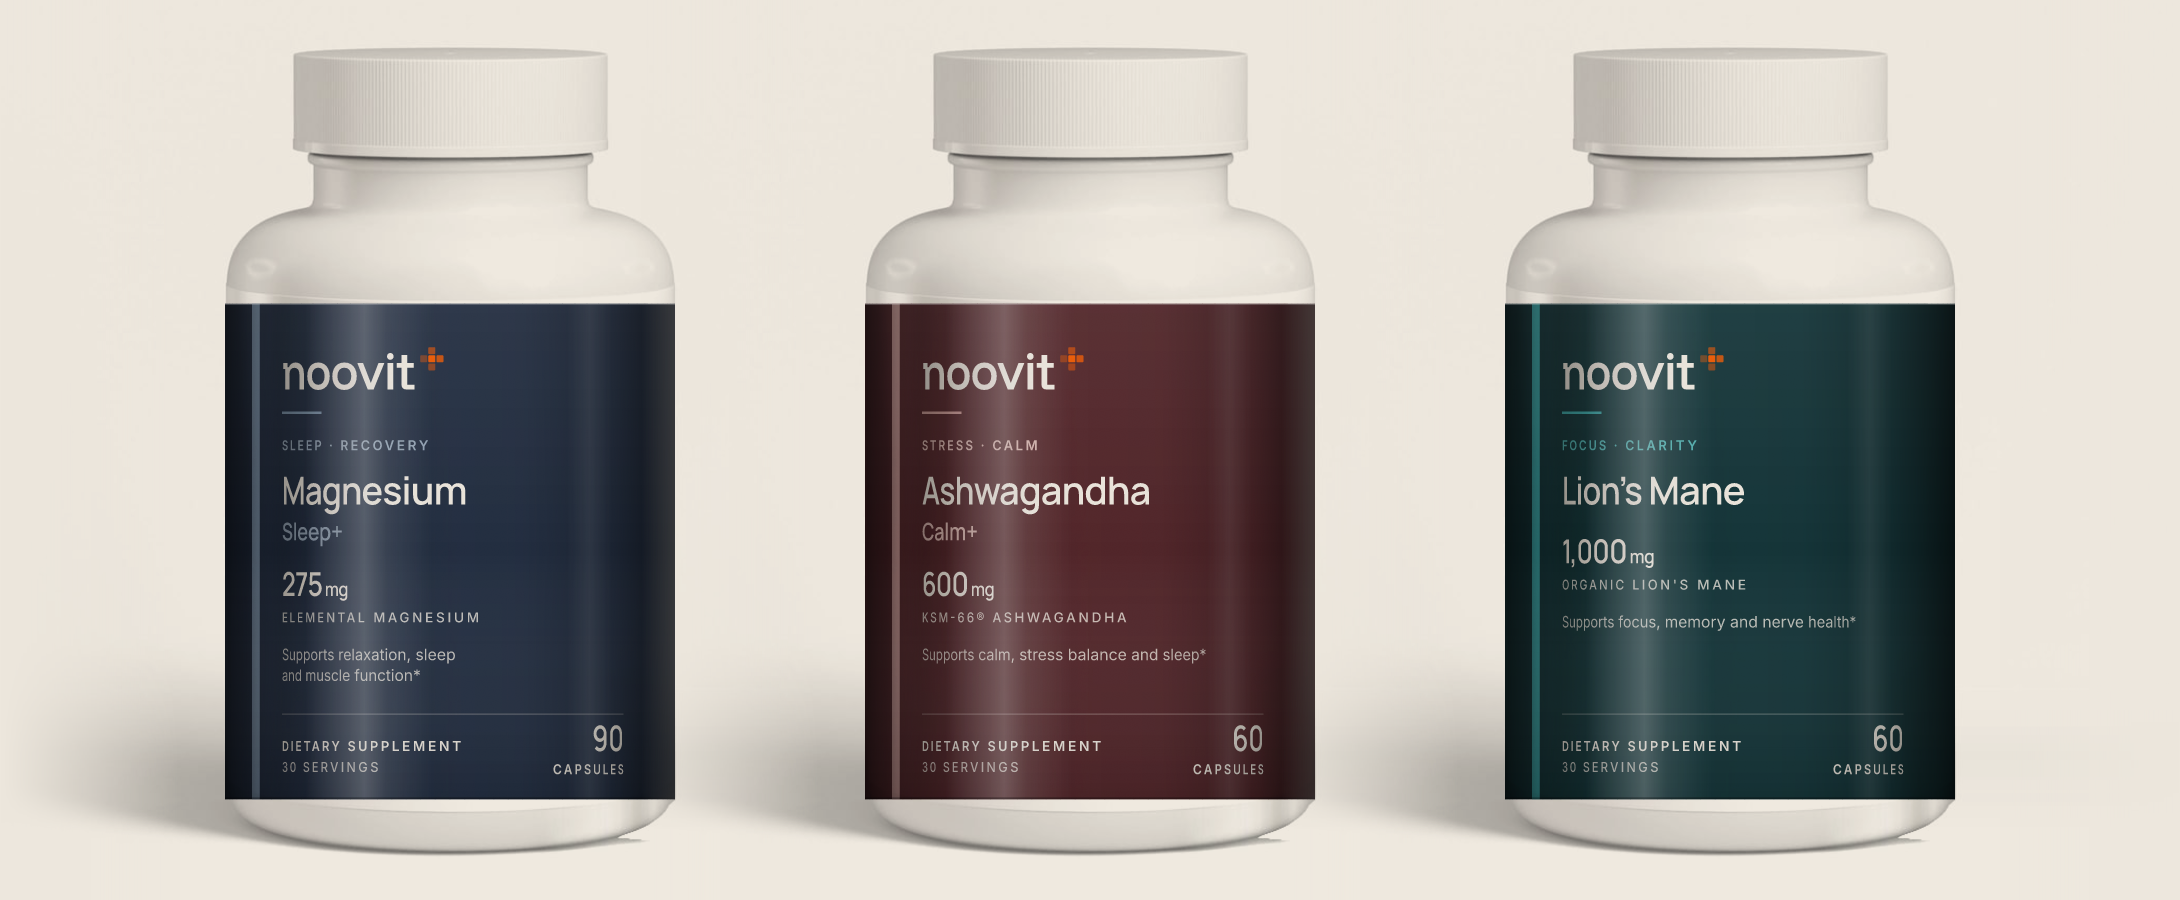
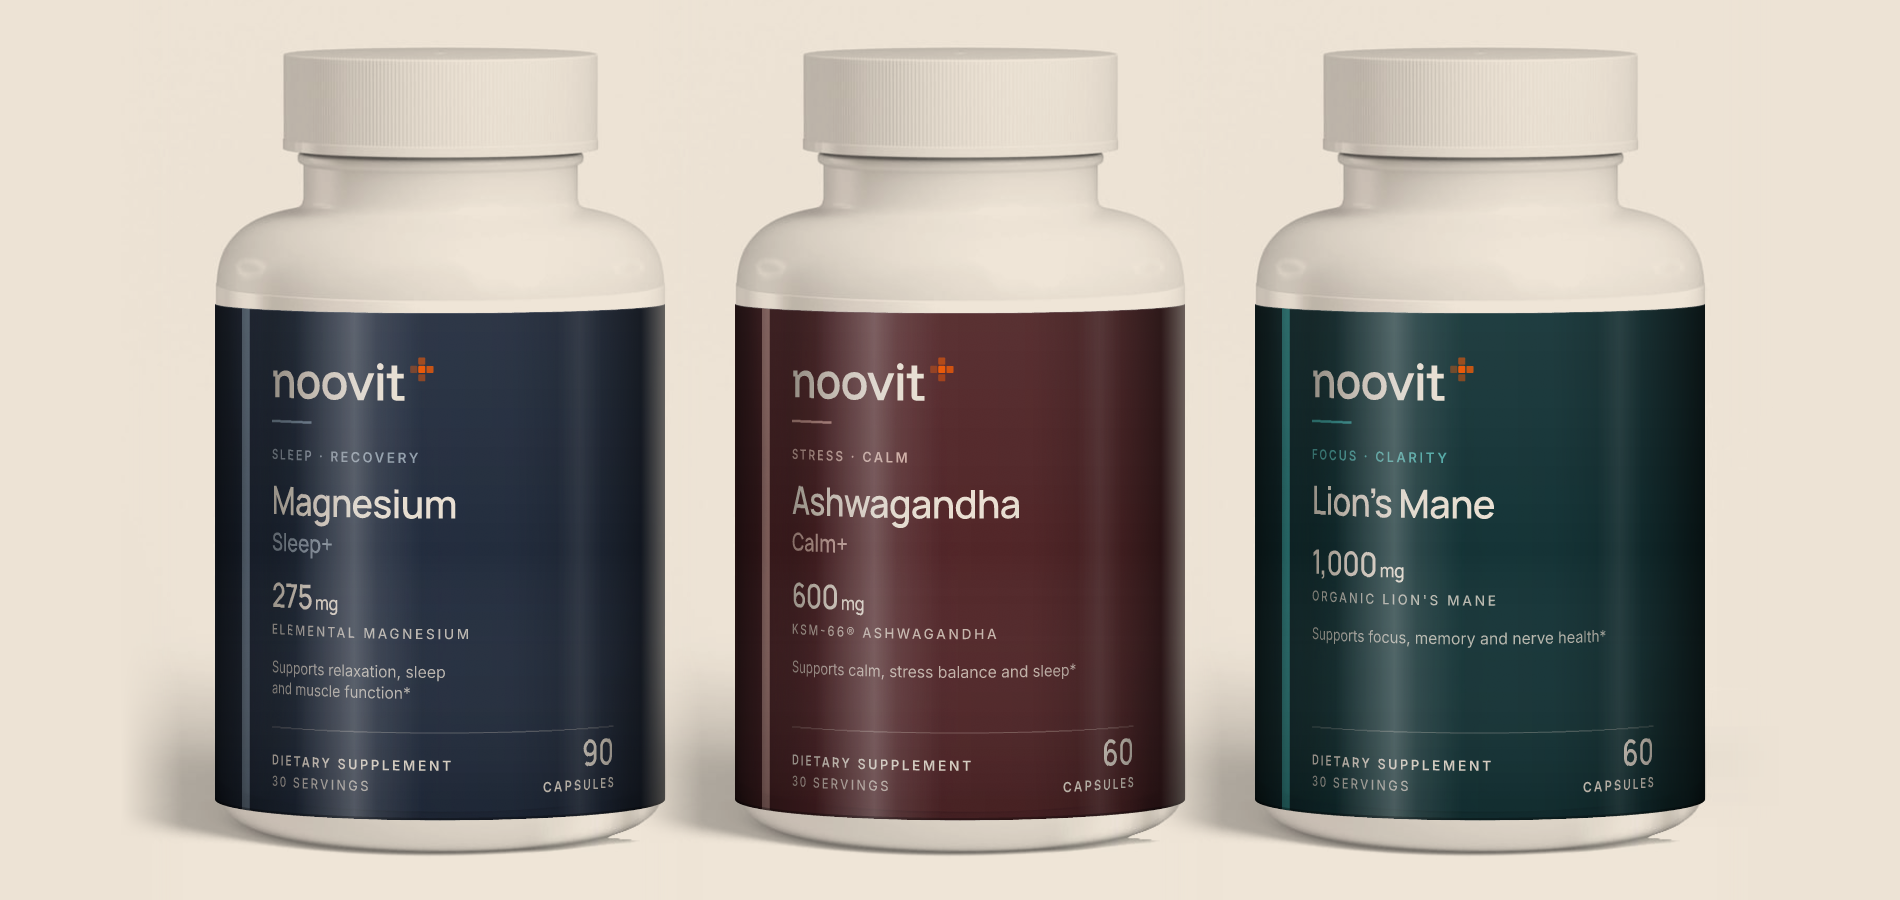
Photo mockups: label edges curve round the bottle; warmer, tighter line-up shots
Claude-Session: https://claude.ai/code/session_01AgHwmMXyw3TzvCrzNnVa8R

diff --git a/lib/labels/photo.ts b/lib/labels/photo.ts
@@ -19,6 +19,11 @@ const R = 215;
 const TOP = 372;
 const BOTTOM = 846;
 const STRIPS = 48;
+// Seen from slightly above, the label's top and bottom edges are ellipses: at the front they sit lower than at the
+// sides (measured on the photo: ~10 px at the shoulder seam, ~22 px near the base). The label follows that curve
+// instead of a flat rectangle, so its corners turn round the bottle like a real wrap.
+const BOW_TOP = 9;
+const BOW_BOTTOM = 20;
 
 export function usesPhoto(p: Product) {
   return !p.bundleComponents?.length && (p.form === 'capsules' || p.form === 'softgels');
@@ -63,12 +68,21 @@ const LIGHT_DEFS = `
       <feColorMatrix values="0 0 0 0 0.5  0 0 0 0 0.5  0 0 0 0 0.5  0 0 0 0.9 0"/>
     </filter>`;
 const lighting = () => `
-      <rect x="${X0}" y="${TOP}" width="${2 * R}" height="${BOTTOM - TOP}" filter="url(#lt-grain)" opacity="0.07" style="mix-blend-mode:overlay"/>
-      <rect x="${X0}" y="${TOP}" width="${2 * R}" height="${BOTTOM - TOP}" fill="url(#lt-v)"/>
-      <rect x="${X0}" y="${TOP}" width="${2 * R}" height="${BOTTOM - TOP}" fill="url(#lt-roll)"/>
-      <rect x="${X0}" y="${TOP}" width="${2 * R}" height="${BOTTOM - TOP}" fill="url(#lt-spec)" style="mix-blend-mode:screen"/>
-      <rect x="${X0}" y="${TOP}" width="${2 * R}" height="1.4" fill="#fff" opacity="0.22"/>
-      <rect x="${X0}" y="${BOTTOM - 2.2}" width="${2 * R}" height="2.2" fill="#000" opacity="0.28"/>`;
+      <rect x="${X0}" y="${TOP}" width="${2 * R}" height="${BOTTOM - TOP + BOW_BOTTOM}" filter="url(#lt-grain)" opacity="0.07" style="mix-blend-mode:overlay"/>
+      <rect x="${X0}" y="${TOP}" width="${2 * R}" height="${BOTTOM - TOP + BOW_BOTTOM}" fill="url(#lt-v)"/>
+      <rect x="${X0}" y="${TOP}" width="${2 * R}" height="${BOTTOM - TOP + BOW_BOTTOM}" fill="url(#lt-roll)"/>
+      <rect x="${X0}" y="${TOP}" width="${2 * R}" height="${BOTTOM - TOP + BOW_BOTTOM}" fill="url(#lt-spec)" style="mix-blend-mode:screen"/>
+      <path d="${edge(TOP, BOW_TOP)}" fill="none" stroke="#fff" stroke-width="1.6" opacity="0.22"/>
+      <path d="${edge(BOTTOM - 1.2, BOW_BOTTOM)}" fill="none" stroke="#000" stroke-width="2.4" opacity="0.28"/>`;
+// The label's top or bottom edge as a polyline round the cylinder (bow px lower at the front than at the sides).
+const edge = (y: number, bow: number, reverse = false) => {
+  const pts = Array.from({ length: 41 }, (_, i) => {
+    const a = -Math.PI / 2 + (Math.PI * i) / 40;
+    return `${r(CX + R * Math.sin(a))} ${r(y + bow * Math.cos(a))}`;
+  });
+  return 'M' + (reverse ? pts.reverse() : pts).join(' L');
+};
+const bandPath = () => `${edge(TOP, BOW_TOP)} L${edge(BOTTOM, BOW_BOTTOM, true).slice(1)} Z`;
 
 // `backdrop`: the cream scene, plain white (feeds), or a hex tint (gallery images), multiplied under the photo.
 export function photoBottleSvg(p: Product, backdrop: 'scene' | 'white' | `#${string}` = 'scene', closeUp = false, artFn: LabelArt = defaultArt) {
@@ -86,8 +100,11 @@ export function photoBottleSvg(p: Product, backdrop: 'scene' | 'white' | `#${str
     const ua = (R * a) / s; // label units from the panel centre
     const ub = (R * b) / s;
     const kx = (xb - xa) / (ub - ua);
-    clips.push(`<clipPath id="s${k}"><rect x="${r(xa - 0.4)}" y="${TOP - 2}" width="${r(xb - xa + 0.8)}" height="${BOTTOM - TOP + 4}"/></clipPath>`);
-    strips.push(`<g clip-path="url(#s${k})"><use href="#art" transform="matrix(${r(kx * 1000) / 1000} 0 0 ${r(s * 1000) / 1000} ${r(xa - (FRONT.w / 2 + ua) * kx)} ${TOP})"/></g>`);
+    const c = Math.cos((a + b) / 2); // 1 at the front, 0 at the silhouette
+    const t = TOP + BOW_TOP * c, bt = BOTTOM + BOW_BOTTOM * c;
+    const sy = (bt - t) / FRONT.h;
+    clips.push(`<clipPath id="s${k}"><rect x="${r(xa - 0.4)}" y="${r(t)}" width="${r(xb - xa + 0.8)}" height="${r(bt - t)}"/></clipPath>`);
+    strips.push(`<g clip-path="url(#s${k})"><use href="#art" transform="matrix(${r(kx * 1000) / 1000} 0 0 ${r(sy * 1000) / 1000} ${r(xa - (FRONT.w / 2 + ua) * kx)} ${r(t)})"/></g>`);
   }
   const tint = backdrop === 'scene' ? '#f7f1e9' : backdrop === 'white' ? null : backdrop;
   const bg =
@@ -99,7 +116,7 @@ export function photoBottleSvg(p: Product, backdrop: 'scene' | 'white' | `#${str
   <defs>
     ${art}
     ${clips.join('')}
-    <clipPath id="band"><rect x="${CX - R}" y="${TOP}" width="${R * 2}" height="${BOTTOM - TOP}"/></clipPath>
+    <clipPath id="band"><path d="${bandPath()}"/></clipPath>
     ${LIGHT_DEFS}
   </defs>
   ${bg}
@@ -107,10 +124,10 @@ export function photoBottleSvg(p: Product, backdrop: 'scene' | 'white' | `#${str
   <g>
     <g clip-path="url(#band)">
       ${strips.join('')}
-      <rect x="${CX - R}" y="${TOP}" width="${R * 2}" height="1.2" fill="#000" opacity="0.10"/>
-      <rect x="${CX - R}" y="${BOTTOM - 1.2}" width="${R * 2}" height="1.2" fill="#000" opacity="0.10"/>
+      <path d="${edge(TOP + 0.6, BOW_TOP)}" fill="none" stroke="#000" stroke-width="1.2" opacity="0.10"/>
+      <path d="${edge(BOTTOM - 0.6, BOW_BOTTOM)}" fill="none" stroke="#000" stroke-width="1.2" opacity="0.10"/>
       <image href="${photo}" width="1024" height="1024" style="mix-blend-mode:multiply"/>
-      ${tint ? `<rect x="${CX - R}" y="${TOP}" width="${R * 2}" height="${BOTTOM - TOP}" fill="${tint}" style="mix-blend-mode:multiply"/>` : ''}
+      ${tint ? `<rect x="${CX - R}" y="${TOP}" width="${R * 2}" height="${BOTTOM - TOP + BOW_BOTTOM}" fill="${tint}" style="mix-blend-mode:multiply"/>` : ''}
       ${lighting()}
     </g>
   </g>

diff --git a/lib/labels/svg.ts b/lib/labels/svg.ts
@@ -15,7 +15,7 @@ import { LEGAL_NAME } from '@/lib/site';
 export type FontMode = 'web' | 'print';
 
 // Bump when the photo mockup (lib/labels/photo.ts) changes, so cached product image URLs refresh.
-export const MOCKUP_VERSION = 'photo-v13'; // v12 (14 Nov): elegant dark label; v13: studio lighting on the label
+export const MOCKUP_VERSION = 'photo-v14'; // v12 (14 Nov): elegant dark label; v13: studio lighting; v14: label edges curve round the bottle
 
 const NAVY = '#14213d';
 const INK = '#4b5563';

diff --git a/docs/PROGRESS.md b/docs/PROGRESS.md
@@ -189,5 +189,6 @@ Status: **Have** · **Phase N** = planned (Phases 1–2 done Oct 2026) · **Tool
 - [x] 12 Nov (23): owner confirmed done: noovit.com is the primary domain (www redirects to it), Resend set up for noovit.com, inbox for hello@noovit.com.
 - [x] 14 Nov (24): medical reviewer brief and Upwork job post (`docs/REVIEWER_BRIEF.md`).
 - [x] 14 Nov (25): labels: V2 front is the default for all bottle and tub print labels (creatine tub converted); products without molecule/shape art get a bead-sphere fallback; "Made in the USA" removed from labels; other-ingredients wrap fixed; product images bumped to photo-v11.
+- [x] 14 Nov (28): label edges now curve round the bottle in the photo mockups (no more square corners); warm cream line-up shots grouped closer, like a studio shot (MOCKUP_VERSION photo-v14).
 - [x] 14 Nov (27): photo mockups get studio lighting on the label (edge shadow, specular highlight, matte grain, lit top lip, bottom shadow) so the dark labels look printed, not pasted (`lib/labels/photo.ts`, MOCKUP_VERSION photo-v13).
 - [x] 14 Nov (26): new label "E2 dark" (owner's pick, Thorne-like minimal): deep product-colour wrap, bigger wordmark, smaller name, even spacing, white Facts/Info cards; CoQ10 → plum, Turmeric → saffron on charcoal with a 900 mg hero number. Wired into every print label, the creatine tub and the website photos; colour SQL for the live DB.
